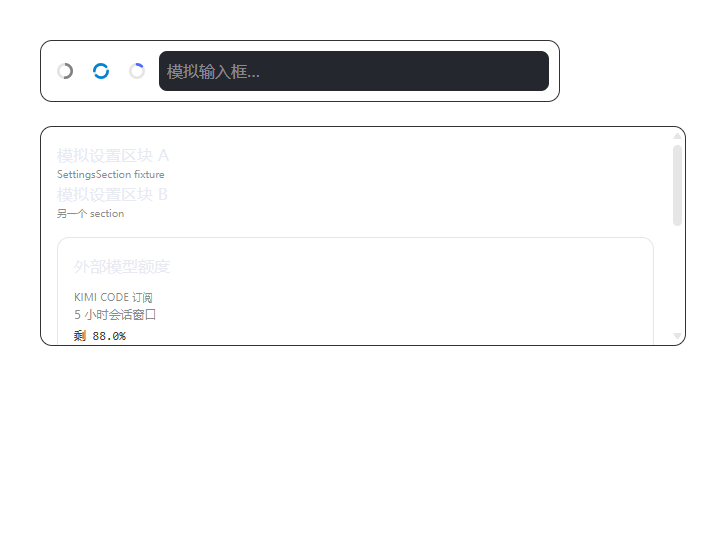
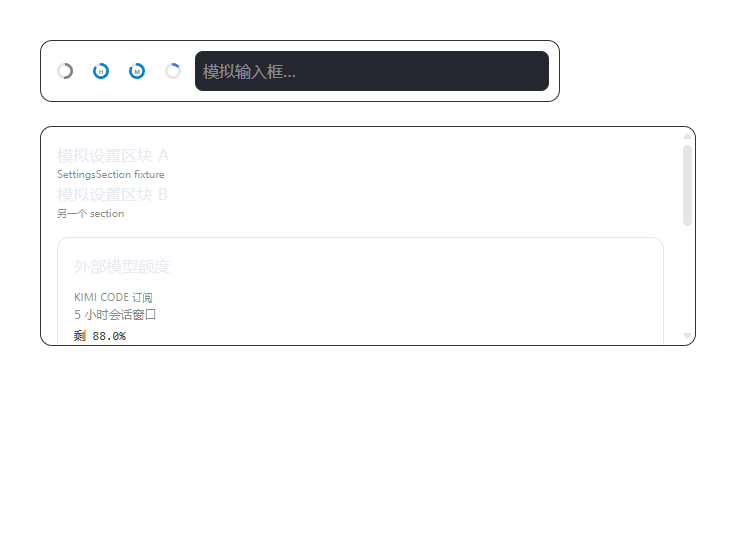
v0.3.1：Kimi 改为 H/M 两个独立整环（环中心字母），放弃双半环

diff --git a/zquota-injector/payload/zquota-renderer.js b/zquota-injector/payload/zquota-renderer.js
@@ -19,7 +19,7 @@
   }
 
   const TID = "chat-context-usage-trigger";
-  const state = { data: null, error: "", fetching: false, lastFetch: 0, kimiBtn: null, dsBtn: null, panel: null, panelScope: "all", hoverTimer: null, settingsCard: null, testidsDumped: false };
+  const state = { data: null, error: "", fetching: false, lastFetch: 0, kimiHBtn: null, kimiMBtn: null, dsBtn: null, panel: null, panelScope: "all", hoverTimer: null, settingsCard: null, testidsDumped: false };
 
   const log = (m) => {
     console.debug("[zquota]", m);
@@ -79,7 +79,7 @@
 
   // ---------- 小环（Kimi 用量环 + DeepSeek 余额环） ----------
 
-  function ringSvg(ratio, colorOverride) {
+  function ringSvg(ratio, colorOverride, letter) {
     const C = 2 * Math.PI * 10;
     // 圆头补偿：round cap 在弧两端各多画半个线宽（共 4），可用弧长减 4，
     // 使 100% 时圆头恰好到达端点、87% 等中间值能看出明确缺口
@@ -88,6 +88,12 @@
     const off = usable * (1 - used);
     const track = token("--color-foreground-subtle", "#9aa3b5");
     const color = colorOverride || remainColor(ratio);
+    // 环中心字母（如 Kimi 的 H/M），不拦截鼠标事件
+    const letterSvg = letter
+      ? `<text x="12" y="12.5" text-anchor="middle" dominant-baseline="central" pointer-events="none" ` +
+        `style="font-family:'Segoe UI',system-ui,'Microsoft YaHei',sans-serif;font-size:8.5px;font-weight:600;` +
+        `fill:${token("--color-foreground", "#e8eaf2")};opacity:.85">${letter}</text>`
+      : "";
     return (
       `<svg viewBox="0 0 24 24" fill="none" aria-hidden="true" style="width:1em;height:1em;display:block">` +
       `<circle cx="12" cy="12" r="10" fill="none" transform="rotate(-90 12 12)" ` +
@@ -97,49 +103,24 @@
           `style="stroke:${color};stroke-width:4;stroke-dasharray:${usable.toFixed(2)};stroke-dashoffset:${off.toFixed(2)};` +
           `transition:stroke-dashoffset .5s ease,stroke .3s"/>`
         : "") +
+      letterSvg +
       `</svg>`
     );
   }
 
-  // Kimi 上下双半环：上半 = 5 小时额度剩余，下半 = 月度额度剩余；
-  // 各半独立按剩余比例填充与分级配色（半圆弧长 πr，含同样的圆头补偿）
-  function kimiRingSvg(topRemain, bottomRemain) {
-    const HALF = Math.PI * 10;
-    const usable = HALF - 4; // 补偿两端 round cap
-    const track = token("--color-foreground-subtle", "#9aa3b5");
-    const clamp01 = (v) => (v == null ? 0 : Math.max(0, Math.min(1, v)));
-    const half = (d, remain) =>
-      remain == null || clamp01(remain) <= 0
-        ? ""
-        : `<path d="${d}" fill="none" stroke-linecap="round" style="stroke:${remainColor(remain)};stroke-width:4;` +
-          `stroke-dasharray:${usable.toFixed(2)};stroke-dashoffset:${(usable * (1 - clamp01(remain))).toFixed(2)};` +
-          `transition:stroke-dashoffset .5s ease,stroke .3s"/>`;
-    return (
-      `<svg viewBox="0 0 24 24" fill="none" aria-hidden="true" style="width:1em;height:1em;display:block">` +
-      // 轨道两半
-      `<path d="M 2 12 A 10 10 0 0 1 22 12" fill="none" style="stroke:${track};stroke-width:4;opacity:.22"/>` +
-      `<path d="M 22 12 A 10 10 0 0 1 2 12" fill="none" style="stroke:${track};stroke-width:4;opacity:.22"/>` +
-      // 上半：5 小时；下半：月度
-      half("M 2 12 A 10 10 0 0 1 22 12", topRemain) +
-      half("M 22 12 A 10 10 0 0 1 2 12", bottomRemain) +
-      `</svg>`
-    );
+  // Kimi 用两个独立整环：H 环 = 5 小时窗口剩余，M 环 = 月度剩余；环中心带字母
+  function kimiRowRemain(key) {
+    const rows = state.data?.kimi?.rows || [];
+    const r = rows.find((x) => x.key === key);
+    return r ? r.remain : null;
   }
 
-  function kimiHalves(data) {
-    const rows = data?.kimi?.rows || [];
-    const w = rows.find((r) => r.key === "5h");
-    const m = rows.find((r) => r.key === "month");
-    return { top: w ? w.remain : null, bottom: m ? m.remain : null };
-  }
-
-  function kimiRingTitle() {
+  function kimiRingTitle(which) {
     const d = state.data;
-    if (!d) return "Kimi 额度（加载中…）";
+    if (!d) return which === "5h" ? "Kimi 5 小时窗口（加载中…）" : "Kimi 月度额度（加载中…）";
     if (!d.kimi?.ok) return `Kimi：${d.kimi?.error || "不可用"}`;
-    const w = d.kimi.rows.find((r) => r.key === "5h");
-    const m = d.kimi.rows.find((r) => r.key === "month");
-    return `Kimi ${w ? "5h " + w.text : ""}${w && m ? " · " : ""}${m ? "月度 " + m.text : ""}`.trim();
+    const r = d.kimi.rows.find((x) => x.key === (which === "5h" ? "5h" : "month"));
+    return which === "5h" ? `Kimi 5 小时窗口 ${r ? r.text : ""}`.trim() : `Kimi 月度额度 ${r ? r.text : ""}`.trim();
   }
 
   // DeepSeek 环：以 ¥100 为满
@@ -160,10 +141,15 @@
   function updateRing() {
     // 不设置 title：原生 tooltip（悬停弹出的系统黑框）不需要，信息由悬停面板承载；
     // aria-label 保留给无障碍读屏
-    if (state.kimiBtn?.isConnected) {
-      const halves = kimiHalves(state.data);
-      state.kimiBtn.innerHTML = kimiRingSvg(halves.top, halves.bottom);
-      state.kimiBtn.setAttribute("aria-label", kimiRingTitle());
+    if (state.kimiHBtn?.isConnected) {
+      const remain = kimiRowRemain("5h");
+      state.kimiHBtn.innerHTML = ringSvg(remain, remainColor(remain), "H");
+      state.kimiHBtn.setAttribute("aria-label", kimiRingTitle("5h"));
+    }
+    if (state.kimiMBtn?.isConnected) {
+      const remain = kimiRowRemain("month");
+      state.kimiMBtn.innerHTML = ringSvg(remain, remainColor(remain), "M");
+      state.kimiMBtn.setAttribute("aria-label", kimiRingTitle("month"));
     }
     if (state.dsBtn?.isConnected) {
       const r = dsRatio(state.data);
@@ -210,7 +196,7 @@
       const svg = trig.querySelector("svg");
       const w = svg && svg.getBoundingClientRect().width;
       const px = w > 4 ? Math.round(w * 100) / 100 : 16;
-      for (const btn of [state.kimiBtn, state.dsBtn]) {
+      for (const btn of [state.kimiHBtn, state.kimiMBtn, state.dsBtn]) {
         if (btn) btn.style.fontSize = px + "px";
       }
       return px;
@@ -223,23 +209,26 @@
     const trig = document.querySelector(`[data-testid="${TID}"]`);
     if (!trig || !trig.parentElement) return false;
     const parent = trig.parentElement;
-    if (state.kimiBtn?.isConnected && state.dsBtn?.isConnected) {
+    if (state.kimiHBtn?.isConnected && state.kimiMBtn?.isConnected && state.dsBtn?.isConnected) {
       // GLM 触发器重建时把我们的环挪到它旁边，并重测官方尺寸（官方可能改版）
-      if (state.kimiBtn.previousElementSibling !== trig) {
-        parent.insertBefore(state.kimiBtn, trig.nextSibling);
-        parent.insertBefore(state.dsBtn, state.kimiBtn.nextSibling);
+      if (state.kimiHBtn.previousElementSibling !== trig) {
+        parent.insertBefore(state.kimiHBtn, trig.nextSibling);
+        parent.insertBefore(state.kimiMBtn, state.kimiHBtn.nextSibling);
+        parent.insertBefore(state.dsBtn, state.kimiMBtn.nextSibling);
         syncRingSize(trig);
       }
       return true;
     }
     try {
-      state.kimiBtn = buildRingBtn(trig, "kimi", "Kimi 额度");
+      state.kimiHBtn = buildRingBtn(trig, "kimi-h", "Kimi 5 小时窗口");
+      state.kimiMBtn = buildRingBtn(trig, "kimi-m", "Kimi 月度额度");
       state.dsBtn = buildRingBtn(trig, "ds", "DeepSeek 余额");
-      parent.insertBefore(state.kimiBtn, trig.nextSibling);
-      parent.insertBefore(state.dsBtn, state.kimiBtn.nextSibling);
+      parent.insertBefore(state.kimiHBtn, trig.nextSibling);
+      parent.insertBefore(state.kimiMBtn, state.kimiHBtn.nextSibling);
+      parent.insertBefore(state.dsBtn, state.kimiMBtn.nextSibling);
       const px = syncRingSize(trig);
       updateRing();
-      log(`小环已挂载（Kimi + DeepSeek，克隆自 GLM 触发器，尺寸 ${px}px）`);
+      log(`小环已挂载（Kimi H/M + DeepSeek，克隆自 GLM 触发器，尺寸 ${px}px）`);
       return true;
     } catch (e) {
       log("小环挂载失败：" + e.message);
@@ -424,7 +413,8 @@
     clearTimeout(state.hoverTimer);
     clearTimeout(state._hideAnim);
     // 环的归属决定面板内容域：Kimi 环只显示 Kimi，DS 环只显示 DeepSeek
-    const scope = anchor.getAttribute && anchor.getAttribute("data-zquota-ring") === "ds" ? "ds" : anchor.getAttribute && anchor.getAttribute("data-zquota-ring") === "kimi" ? "kimi" : "all";
+    const ringAttr = anchor.getAttribute && anchor.getAttribute("data-zquota-ring");
+    const scope = ringAttr === "ds" ? "ds" : ringAttr === "kimi-h" || ringAttr === "kimi-m" ? "kimi" : "all";
     state.panelScope = scope;
     panelBody(state._panelBody, scope);
     state.open = true;
@@ -456,7 +446,8 @@
     const staying =
       to &&
       ((p.contains && p.contains(to)) ||
-        (state.kimiBtn && state.kimiBtn.contains(to)) ||
+        (state.kimiHBtn && state.kimiHBtn.contains(to)) ||
+        (state.kimiMBtn && state.kimiMBtn.contains(to)) ||
         (state.dsBtn && state.dsBtn.contains(to)) ||
         (to.closest && to.closest('[data-zquota-ring],[data-zquota-panel]')));
     if (!staying) {
@@ -575,7 +566,7 @@
       document.addEventListener("pointerdown", (e) => {
         if (!state.open || !state.panel) return;
         const t = e.target;
-        if (state.panel.contains(t) || (state.kimiBtn && state.kimiBtn.contains(t)) || (state.dsBtn && state.dsBtn.contains(t))) return;
+        if (state.panel.contains(t) || (state.kimiHBtn && state.kimiHBtn.contains(t)) || (state.kimiMBtn && state.kimiMBtn.contains(t)) || (state.dsBtn && state.dsBtn.contains(t))) return;
         closePanel();
       });
       document.addEventListener("keydown", (e) => {
